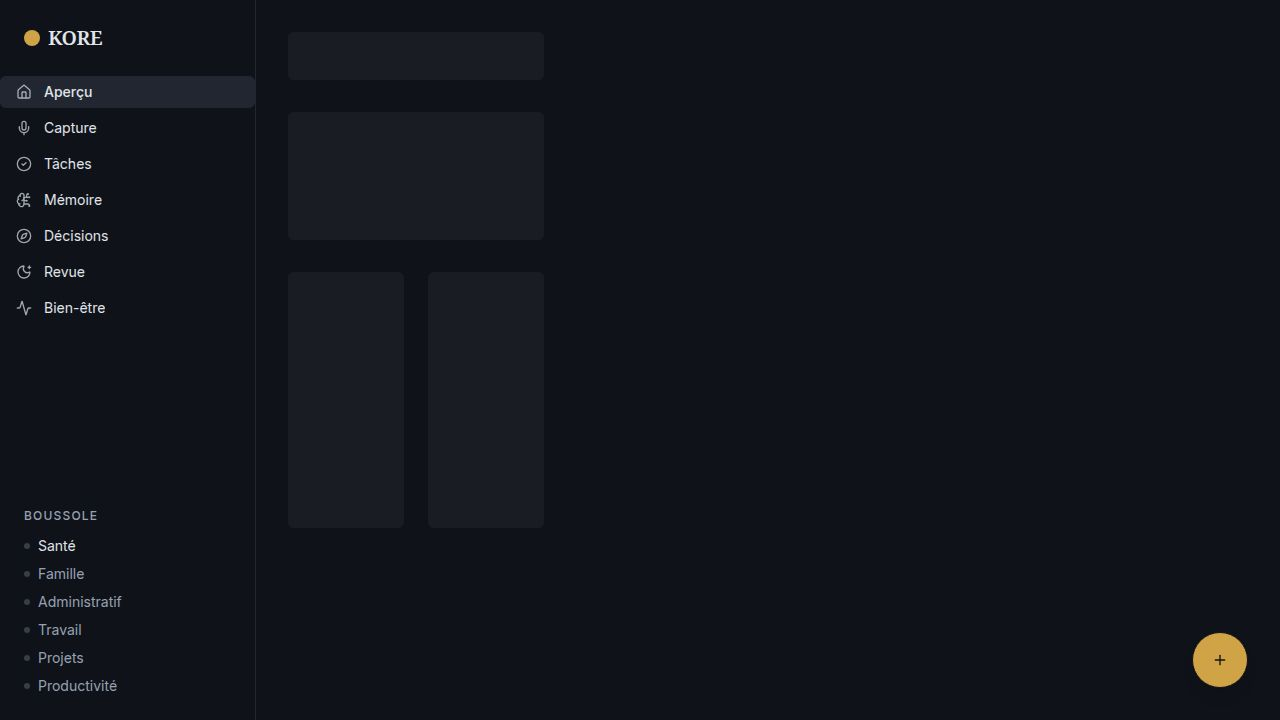
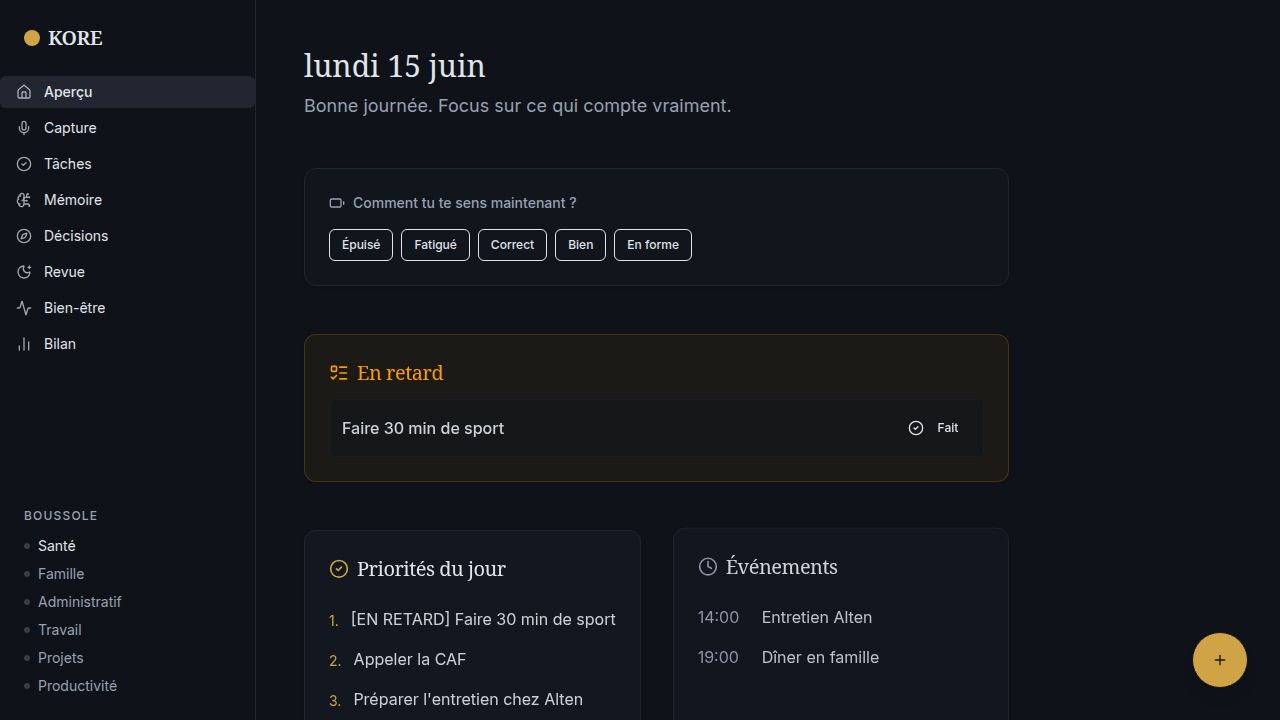
Add a weekly summary page and integrate AI analysis
Integrates a new weekly summary page, enhances API caching, and implements AI-driven data analysis for weekly reports.

Replit-Commit-Author: Agent
Replit-Commit-Session-Id: 6a75b028-f653-4f88-962c-1ae56c3a6b83
Replit-Commit-Checkpoint-Type: full_checkpoint
Replit-Commit-Event-Id: 8235cfd6-9d53-4200-bb1d-cc45ec7cb305
Replit-Commit-Screenshot-Url: https://storage.googleapis.com/screenshot-production-us-central1/b8af7bf9-08f3-4f3b-83e6-622df642dcff/6a75b028-f653-4f88-962c-1ae56c3a6b83/vSs1unA
Replit-Helium-Checkpoint-Created: true

diff --git a/artifacts/kore/src/pages/weekly.tsx b/artifacts/kore/src/pages/weekly.tsx
@@ -1,0 +1,164 @@
+import { useQuery } from "@tanstack/react-query";
+import { useGetEnergyHistory, getGetEnergyHistoryQueryKey } from "@workspace/api-client-react";
+import { Card, CardContent, CardHeader, CardTitle } from "@/components/ui/card";
+import { Skeleton } from "@/components/ui/skeleton";
+import { BarChart2, Zap, CheckCircle2, AlertCircle, TrendingUp } from "lucide-react";
+import { motion } from "framer-motion";
+import { format, subDays, parseISO, startOfWeek, endOfWeek } from "date-fns";
+import { fr } from "date-fns/locale";
+import { BarChart, Bar, XAxis, YAxis, Tooltip, ResponsiveContainer, CartesianGrid, ReferenceLine } from "recharts";
+
+export default function Weekly() {
+  const { data: energyHistory, isLoading: isEnergyLoading } = useGetEnergyHistory();
+
+  const weekStart = startOfWeek(new Date(), { weekStartsOn: 1 });
+  const weekEnd = endOfWeek(new Date(), { weekStartsOn: 1 });
+
+  const { data: summary, isLoading: isSummaryLoading } = useQuery({
+    queryKey: ["weekly-summary"],
+    queryFn: async () => {
+      const res = await fetch("/api/briefings/weekly");
+      if (!res.ok) throw new Error("Failed to fetch weekly summary");
+      return res.json();
+    },
+    staleTime: 1800_000,
+  });
+
+  const weeklyEnergyData = (() => {
+    const days: { date: string; label: string; energy: number | null }[] = [];
+    for (let i = 6; i >= 0; i--) {
+      const d = subDays(new Date(), i);
+      const dateStr = d.toISOString().split("T")[0];
+      const log = energyHistory?.find((l) => l.logDate === dateStr);
+      days.push({
+        date: dateStr,
+        label: format(d, "EEE", { locale: fr }),
+        energy: log ? log.level : null,
+      });
+    }
+    return days;
+  })();
+
+  const container = { hidden: { opacity: 0 }, show: { opacity: 1, transition: { staggerChildren: 0.1 } } };
+  const item = { hidden: { opacity: 0, y: 16 }, show: { opacity: 1, y: 0 } };
+
+  return (
+    <div className="p-8 md:p-12 max-w-4xl mx-auto space-y-10 min-h-screen">
+      <header>
+        <motion.div initial={{ opacity: 0, y: 10 }} animate={{ opacity: 1, y: 0 }}>
+          <h1 className="text-3xl font-serif mb-2 text-foreground">Bilan de la semaine</h1>
+          <p className="text-muted-foreground text-lg">
+            {format(weekStart, "d MMMM", { locale: fr })} — {format(weekEnd, "d MMMM yyyy", { locale: fr })}
+          </p>
+        </motion.div>
+      </header>
+
+      {isSummaryLoading ? (
+        <div className="space-y-4">
+          <Skeleton className="h-40 w-full rounded-xl" />
+          <Skeleton className="h-28 w-full rounded-xl" />
+        </div>
+      ) : summary ? (
+        <motion.div variants={container} initial="hidden" animate="show" className="space-y-6">
+          <motion.div variants={item}>
+            <Card className="bg-card border-border shadow-sm">
+              <CardContent className="p-8">
+                <p className="text-foreground/90 text-lg leading-relaxed font-serif">{summary.koreMessage}</p>
+              </CardContent>
+            </Card>
+          </motion.div>
+
+          <div className="grid grid-cols-1 md:grid-cols-2 gap-6">
+            <motion.div variants={item}>
+              <Card className="bg-card border-border shadow-sm h-full">
+                <CardHeader className="pb-3">
+                  <CardTitle className="flex items-center gap-2 font-serif font-normal text-lg">
+                    <TrendingUp className="w-4 h-4 text-accent" />
+                    Tendance
+                  </CardTitle>
+                </CardHeader>
+                <CardContent>
+                  <p className="text-muted-foreground leading-relaxed">{summary.trend}</p>
+                </CardContent>
+              </Card>
+            </motion.div>
+
+            <motion.div variants={item}>
+              <Card className="bg-card border-border shadow-sm h-full">
+                <CardHeader className="pb-3">
+                  <CardTitle className="flex items-center gap-2 font-serif font-normal text-lg">
+                    <AlertCircle className="w-4 h-4 text-accent" />
+                    Pour la semaine prochaine
+                  </CardTitle>
+                </CardHeader>
+                <CardContent>
+                  <p className="text-muted-foreground leading-relaxed">{summary.recommendation}</p>
+                </CardContent>
+              </Card>
+            </motion.div>
+          </div>
+
+          <motion.div variants={item} className="grid grid-cols-2 md:grid-cols-4 gap-4">
+            {[
+              { label: "Tâches terminées", value: summary.tasksCompleted, icon: CheckCircle2, color: "text-emerald-500" },
+              { label: "En retard", value: summary.tasksOverdue, icon: AlertCircle, color: "text-amber-500" },
+              { label: "Décisions", value: summary.decisionsCount, icon: BarChart2, color: "text-accent" },
+              { label: "Revues du soir", value: `${summary.reviewsCount}/7`, icon: Zap, color: "text-blue-400" },
+            ].map(({ label, value, icon: Icon, color }) => (
+              <Card key={label} className="bg-card border-border shadow-sm">
+                <CardContent className="p-5 flex flex-col items-center justify-center text-center gap-2">
+                  <Icon className={`w-5 h-5 ${color}`} />
+                  <p className="text-2xl font-mono font-bold text-foreground">{value}</p>
+                  <p className="text-xs text-muted-foreground leading-tight">{label}</p>
+                </CardContent>
+              </Card>
+            ))}
+          </motion.div>
+        </motion.div>
+      ) : (
+        <Card className="bg-card border-border">
+          <CardContent className="p-8 text-center">
+            <p className="text-muted-foreground italic">Impossible de charger le bilan. Réessaie dans un moment.</p>
+          </CardContent>
+        </Card>
+      )}
+
+      <motion.div initial={{ opacity: 0, y: 20 }} animate={{ opacity: 1, y: 0 }} transition={{ delay: 0.4 }} className="space-y-4">
+        <h2 className="text-xl font-serif text-foreground flex items-center gap-2">
+          <Zap className="w-5 h-5 text-accent" />
+          Énergie cette semaine
+        </h2>
+        <Card className="bg-card border-border shadow-sm">
+          <CardContent className="p-6">
+            {isEnergyLoading ? (
+              <Skeleton className="h-[220px] w-full" />
+            ) : weeklyEnergyData.some((d) => d.energy !== null) ? (
+              <div className="h-[220px] w-full">
+                <ResponsiveContainer width="100%" height="100%">
+                  <BarChart data={weeklyEnergyData} margin={{ top: 10, right: 10, bottom: 0, left: -20 }}>
+                    <CartesianGrid strokeDasharray="3 3" stroke="var(--color-border)" vertical={false} />
+                    <XAxis dataKey="label" stroke="var(--color-muted-foreground)" fontSize={12} tickLine={false} axisLine={false} />
+                    <YAxis domain={[0, 10]} stroke="var(--color-muted-foreground)" fontSize={12} tickLine={false} axisLine={false} ticks={[0, 5, 10]} />
+                    <ReferenceLine y={5} stroke="var(--color-muted-foreground)" strokeDasharray="4 4" opacity={0.4} />
+                    <Tooltip
+                      contentStyle={{ backgroundColor: "var(--color-card)", borderColor: "var(--color-border)", borderRadius: "8px" }}
+                      itemStyle={{ color: "var(--color-foreground)" }}
+                      formatter={(v: number) => [`${v}/10`, "Énergie"]}
+                    />
+                    <Bar dataKey="energy" fill="var(--color-accent)" radius={[4, 4, 0, 0]} maxBarSize={48} />
+                  </BarChart>
+                </ResponsiveContainer>
+              </div>
+            ) : (
+              <div className="h-[220px] flex items-center justify-center">
+                <p className="text-muted-foreground italic text-sm">
+                  Aucune énergie loggée cette semaine. Note-la chaque soir dans la Revue du soir.
+                </p>
+              </div>
+            )}
+          </CardContent>
+        </Card>
+      </motion.div>
+    </div>
+  );
+}

diff --git a/artifacts/api-server/src/routes/briefings.ts b/artifacts/api-server/src/routes/briefings.ts
@@ -1,13 +1,17 @@
 import { Router, type IRouter } from "express";
 import { db, tasksTable, eventsTable, eveningReviewsTable, energyLogsTable } from "@workspace/db";
 import { SubmitEveningReviewBody } from "@workspace/api-zod";
-import { eq, and, gte, lte, lt, avg, count, desc } from "drizzle-orm";
-import { generateMorningKoreMessage, generateEveningResponse } from "../lib/ai";
+import { eq, and, gte, lte, lt, avg, count, desc, min, max } from "drizzle-orm";
+import { generateMorningKoreMessage, generateEveningResponse, generateWeeklySummary } from "../lib/ai";
+import { capturesTable, decisionsTable } from "@workspace/db";
 
 const router: IRouter = Router();
 
 let briefingCache: { date: string; data: unknown; cachedAt: number } | null = null;
 const BRIEFING_CACHE_TTL = 3600_000;
+
+let weeklyCache: { weekStart: string; data: unknown; cachedAt: number } | null = null;
+const WEEKLY_CACHE_TTL = 3600_000;
 
 export function invalidateBriefingCache(): void {
   briefingCache = null;
@@ -132,6 +136,88 @@ router.post("/briefings/evening", async (req, res): Promise<void> => {
 
   invalidateBriefingCache();
   res.status(201).json(review);
+});
+
+router.get("/briefings/weekly", async (_req, res): Promise<void> => {
+  const today = new Date();
+  const weekStart = new Date(today);
+  weekStart.setDate(today.getDate() - 6);
+  const weekStartStr = weekStart.toISOString().split("T")[0];
+
+  if (weeklyCache && weeklyCache.weekStart === weekStartStr && Date.now() - weeklyCache.cachedAt < WEEKLY_CACHE_TTL) {
+    res.json(weeklyCache.data);
+    return;
+  }
+  const weekEndStr = today.toISOString().split("T")[0];
+
+  const [
+    energyResult,
+    tasksCompleted,
+    tasksPending,
+    tasksOverdue,
+    decisionsResult,
+    capturesResult,
+    reviewsResult,
+    topDomainResult,
+  ] = await Promise.all([
+    db.select({ avg: avg(energyLogsTable.level), min: min(energyLogsTable.level), max: max(energyLogsTable.level) })
+      .from(energyLogsTable)
+      .where(gte(energyLogsTable.logDate, weekStartStr)),
+
+    db.select({ count: count() }).from(tasksTable)
+      .where(and(eq(tasksTable.status, "done"), gte(tasksTable.updatedAt, weekStart))),
+
+    db.select({ count: count() }).from(tasksTable)
+      .where(eq(tasksTable.status, "pending")),
+
+    db.select({ count: count() }).from(tasksTable)
+      .where(and(eq(tasksTable.status, "pending"), lt(tasksTable.dueDate, weekEndStr))),
+
+    db.select({ count: count() }).from(decisionsTable)
+      .where(gte(decisionsTable.createdAt, weekStart)),
+
+    db.select({ count: count() }).from(capturesTable)
+      .where(gte(capturesTable.createdAt, weekStart)),
+
+    db.select({ count: count() }).from(eveningReviewsTable)
+      .where(gte(eveningReviewsTable.reviewDate, weekStartStr)),
+
+    db.select({ domain: tasksTable.priorityDomain, count: count() })
+      .from(tasksTable)
+      .where(and(eq(tasksTable.status, "done"), gte(tasksTable.updatedAt, weekStart)))
+      .groupBy(tasksTable.priorityDomain)
+      .orderBy(desc(count()))
+      .limit(3),
+  ]);
+
+  const summary = await generateWeeklySummary({
+    energyAvg: energyResult[0]?.avg ? parseFloat(String(energyResult[0].avg)) : null,
+    energyMin: energyResult[0]?.min ?? null,
+    energyMax: energyResult[0]?.max ?? null,
+    tasksCompleted: tasksCompleted[0].count,
+    tasksPending: tasksPending[0].count,
+    tasksOverdue: tasksOverdue[0].count,
+    decisionsCount: decisionsResult[0].count,
+    capturesCount: capturesResult[0].count,
+    reviewsCount: reviewsResult[0].count,
+    topDomains: topDomainResult.map(r => r.domain ?? "").filter(Boolean),
+    weekDates: { start: weekStartStr, end: weekEndStr },
+  });
+
+  const weeklyData = {
+    ...summary,
+    tasksCompleted: tasksCompleted[0].count,
+    tasksPending: tasksPending[0].count,
+    tasksOverdue: tasksOverdue[0].count,
+    decisionsCount: decisionsResult[0].count,
+    capturesCount: capturesResult[0].count,
+    reviewsCount: reviewsResult[0].count,
+    energyAvg: energyResult[0]?.avg ? parseFloat(String(energyResult[0].avg)) : null,
+    weekDates: { start: weekStartStr, end: weekEndStr },
+  };
+
+  weeklyCache = { weekStart: weekStartStr, data: weeklyData, cachedAt: Date.now() };
+  res.json(weeklyData);
 });
 
 router.get("/briefings/evening/history", async (_req, res): Promise<void> => {

diff --git a/artifacts/api-server/src/lib/ai.ts b/artifacts/api-server/src/lib/ai.ts
@@ -226,6 +226,60 @@ export async function transcribeAudio(audioBase64: string, mimeType: string = "a
   }
 }
 
+export async function generateWeeklySummary(data: {
+  energyAvg: number | null;
+  energyMin: number | null;
+  energyMax: number | null;
+  tasksCompleted: number;
+  tasksPending: number;
+  tasksOverdue: number;
+  decisionsCount: number;
+  capturesCount: number;
+  reviewsCount: number;
+  topDomains: string[];
+  weekDates: { start: string; end: string };
+}): Promise<{ koreMessage: string; trend: string; recommendation: string }> {
+  const model = genAI.getGenerativeModel({ model: "gemini-2.5-flash" });
+
+  const prompt = `${PRIORITY_COMPASS}
+
+Tu es KORE. Génère le bilan de semaine de l'utilisateur. Sois honnête, calme, sans flatterie.
+
+Données de la semaine (${data.weekDates.start} → ${data.weekDates.end}) :
+- Énergie moyenne : ${data.energyAvg !== null ? `${data.energyAvg.toFixed(1)}/10` : "non mesurée"}
+- Énergie min/max : ${data.energyMin ?? "?"} / ${data.energyMax ?? "?"}
+- Tâches terminées : ${data.tasksCompleted}
+- Tâches en attente : ${data.tasksPending}
+- Tâches en retard : ${data.tasksOverdue}
+- Décisions analysées : ${data.decisionsCount}
+- Captures faites : ${data.capturesCount}
+- Revues du soir complétées : ${data.reviewsCount}/7
+- Domaines principaux : ${data.topDomains.join(", ") || "non identifiés"}
+
+Réponds UNIQUEMENT en JSON :
+{
+  "koreMessage": "Message principal de KORE sur la semaine (3-4 phrases, honnête, ancré dans les données)",
+  "trend": "Tendance observée en 1-2 phrases (énergie, rythme, focus)",
+  "recommendation": "Une recommandation concrète et actionnable pour la semaine prochaine (1-2 phrases)"
+}
+
+RÈGLES : jamais flatteur, jamais culpabilisant. Si la semaine était difficile, dis-le calmement.`;
+
+  try {
+    const result = await model.generateContent(prompt);
+    const text = result.response.text().trim();
+    const jsonMatch = text.match(/\{[\s\S]*\}/);
+    if (!jsonMatch) throw new Error("No JSON");
+    return JSON.parse(jsonMatch[0]);
+  } catch {
+    return {
+      koreMessage: "Semaine enregistrée. Prends un moment pour souffler avant de repartir.",
+      trend: "Données insuffisantes pour identifier une tendance claire.",
+      recommendation: "Commence la semaine prochaine par définir tes 3 priorités absolues.",
+    };
+  }
+}
+
 export async function detectOverload(data: {
   activeTasks: number;
   consecutiveWorkDays: number;

diff --git a/artifacts/kore/src/App.tsx b/artifacts/kore/src/App.tsx
@@ -4,7 +4,7 @@ import { Toaster } from "@/components/ui/toaster";
 import { TooltipProvider } from "@/components/ui/tooltip";
 import NotFound from "@/pages/not-found";
 import { SidebarProvider, Sidebar, SidebarContent, SidebarHeader, SidebarMenu, SidebarMenuItem, SidebarMenuButton } from "@/components/ui/sidebar";
-import { Compass, CheckCircle2, BrainCircuit, Activity, MoonStar, Home, Mic } from "lucide-react";
+import { Compass, CheckCircle2, BrainCircuit, Activity, MoonStar, Home, Mic, BarChart2 } from "lucide-react";
 import { Link, useLocation } from "wouter";
 import { QuickCapture } from "@/components/QuickCapture";
 
@@ -18,6 +18,7 @@ import Memory from "./pages/memory";
 import Decisions from "./pages/decisions";
 import Evening from "./pages/evening";
 import Overload from "./pages/overload";
+import Weekly from "./pages/weekly";
 
 function AppSidebar() {
   const [location] = useLocation();
@@ -30,6 +31,7 @@ function AppSidebar() {
     { href: "/decisions", label: "Décisions", icon: Compass },
     { href: "/evening", label: "Revue", icon: MoonStar },
     { href: "/overload", label: "Bien-être", icon: Activity },
+    { href: "/weekly", label: "Bilan", icon: BarChart2 },
   ];
 
   return (
@@ -99,6 +101,7 @@ function Router() {
           <Route path="/decisions" component={Decisions} />
           <Route path="/evening" component={Evening} />
           <Route path="/overload" component={Overload} />
+          <Route path="/weekly" component={Weekly} />
           <Route component={NotFound} />
         </Switch>
       </main>

diff --git a/artifacts/kore/vite.config.ts b/artifacts/kore/vite.config.ts
@@ -70,6 +70,8 @@ export default defineConfig({
       "/api": {
         target: "http://localhost:8080",
         changeOrigin: true,
+        proxyTimeout: 30000,
+        timeout: 30000,
       },
     },
   },